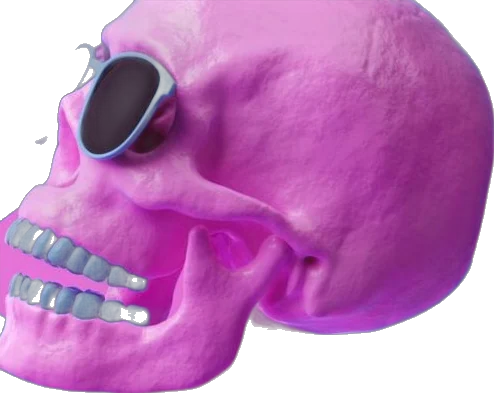
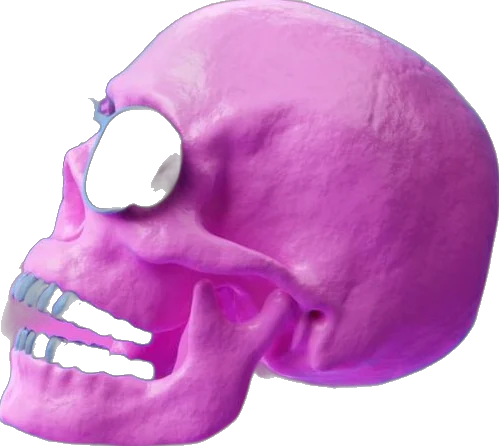
Fix skull crop, steadier eye, headphones on 12, new bust cut-outs, calmer statue
Claude-Session: https://claude.ai/code/session_01WkFQr9y62zBA8xfT5vCMqy

diff --git a/index.html b/index.html
@@ -156,7 +156,7 @@ body::after{content:"";position:fixed;inset:-50%;z-index:90;pointer-events:none;
 
 /* work — horizontal, WebGL frames */
 .work{position:relative;padding-top:clamp(60px,8vw,110px);background:var(--ink)}
-.work-head{display:flex;justify-content:space-between;align-items:flex-end;gap:24px;flex-wrap:wrap;margin-bottom:clamp(28px,4vw,56px)}
+.work-head{position:relative;display:flex;justify-content:space-between;align-items:flex-end;gap:24px;flex-wrap:wrap;margin-bottom:clamp(28px,4vw,56px)}
 .work-head .serif{color:var(--hot)}
 .work-track{display:flex;gap:clamp(16px,2vw,32px);padding-inline:var(--gut);padding-bottom:clamp(60px,8vw,110px);width:max-content;will-change:transform}
 .case{width:min(62vw,880px);flex:none;display:flex;flex-direction:column;gap:16px}
@@ -193,6 +193,11 @@ body::after{content:"";position:fixed;inset:-50%;z-index:90;pointer-events:none;
 .step p{margin:0;color:var(--mute);font-size:clamp(17px,1.5vw,22px);max-width:30ch;line-height:1.35}
 .step p em{font-family:var(--f-serif);color:var(--bone);font-size:1.15em}
 
+.dc{position:absolute;pointer-events:none;z-index:2;filter:drop-shadow(0 24px 40px rgba(0,0,0,.45));will-change:transform}
+.wk-bust{right:30%;bottom:-90px;width:clamp(110px,12vw,210px)}
+.crew-david{left:48%;bottom:-10px;width:clamp(130px,15vw,250px)}
+.cl-bust{left:-1%;bottom:0;width:clamp(150px,18vw,300px)}
+@media (max-width:900px){.wk-bust{right:4%;width:96px}.crew-david{left:auto;right:4%;bottom:auto;top:-40px;width:110px}.cl-bust{width:120px}}
 /* numbers — giant composition */
 .numbers{position:relative;overflow:hidden;padding-block:clamp(70px,9vw,130px);background:var(--ink)}
 .nb{margin-top:clamp(20px,3vw,40px)}
@@ -207,7 +212,7 @@ body::after{content:"";position:fixed;inset:-50%;z-index:90;pointer-events:none;
 .nx-eye .qp{display:block;width:100%;height:100%;transform-style:preserve-3d}
 .nx-eye img{width:100%;height:100%;object-fit:contain;filter:drop-shadow(0 20px 40px rgba(255,46,99,.25))}
 .one{position:relative;display:inline-block}
-.nx-frog{position:absolute;left:-.12em;top:-.13em;width:.56em;transform-origin:50% 100%;filter:drop-shadow(0 10px 18px rgba(0,0,0,.4))}
+.nx-frog{position:absolute;left:-.2em;top:-.24em;width:.72em;transform-origin:50% 100%;rotate:-14deg;filter:drop-shadow(0 10px 18px rgba(0,0,0,.4))}
 .nx-statue{position:absolute;right:-.02em;bottom:-.02em;height:1.02em;width:auto;max-width:none;transform-origin:30% 100%;filter:drop-shadow(0 20px 40px rgba(0,0,0,.45));pointer-events:none}
 .n3 .big{padding-right:1.1em}
 .zero{position:relative;display:inline-block;color:transparent;-webkit-text-stroke:3px var(--bone)}
@@ -294,7 +299,7 @@ blockquote{margin:0}
 
 /* crew */
 .crew{padding-block:clamp(50px,6vw,90px) clamp(70px,9vw,130px);background:var(--ink);border-top:1px solid var(--line)}
-.crew-head{display:flex;justify-content:space-between;align-items:flex-end;gap:24px;flex-wrap:wrap;margin-block:clamp(36px,5vw,70px)}
+.crew-head{position:relative;display:flex;justify-content:space-between;align-items:flex-end;gap:24px;flex-wrap:wrap;margin-block:clamp(36px,5vw,70px)}
 .crew-head p{margin:0;max-width:34ch;color:var(--mute)}
 .crew-grid{display:grid;grid-template-columns:repeat(3,minmax(0,1fr));gap:clamp(12px,1.6vw,24px)}
 .member{display:flex;flex-direction:column;gap:12px;cursor:pointer}
@@ -495,7 +500,7 @@ footer{background:var(--ink)}
   </section>
 
   <section class="work" id="work">
-    <div class="work-head wrap">
+    <div class="work-head wrap"><img class="dc wk-bust" src="im/bust-l.webp" alt="" aria-hidden="true" loading="lazy" decoding="async">
       <h2 class="h-sec reveal">Selected <span class="serif">work</span></h2>
       <p class="mono" style="color:var(--mute);margin:0">Proof, not promises · 2025—2026</p>
     </div>
@@ -557,7 +562,7 @@ footer{background:var(--ink)}
         </div>
         <div class="nrow n2 right">
           <p class="lbl"><span class="mono">02 /</span>countries our work <em class="serif hot">runs</em> in</p>
-          <div class="big" aria-label="12"><span class="one">1<img class="nx-frog" src="im/frog-cut.webp" alt="" loading="lazy" decoding="async"></span><span class="dg" data-v="2"></span></div>
+          <div class="big" aria-label="12"><span class="one">1<img class="nx-frog" src="im/phones-cut.webp" alt="" loading="lazy" decoding="async"></span><span class="dg" data-v="2"></span></div>
         </div>
         <div class="nrow n3">
           <div class="big" aria-label="7"><span class="dg" data-v="7"></span><img class="nx-statue" src="im/statue-cut.webp" alt="" loading="lazy" decoding="async"></div>
@@ -612,12 +617,13 @@ footer{background:var(--ink)}
       <div class="cl-row" data-dir="1"><span class="o">HROM</span><i>✳</i><span>LUNA FM</span><i>✳</i><span class="o">SMAK</span><em>&amp;</em><span>ZORYA</span><i>✳</i><span class="o">MAMAI</span><i>✳</i><span class="o">HROM</span><i>✳</i><span>LUNA FM</span><i>✳</i><span class="o">SMAK</span><em>&amp;</em><span>ZORYA</span><i>✳</i><span class="o">MAMAI</span><i>✳</i></div>
       <div class="cl-row" data-dir="-1"><span>TYSHA</span><i>✳</i><span class="o">KHVYLIA</span><i>✳</i><span>DIM</span><em>&amp;</em><span class="o">PYL</span><i>✳</i><span>BORSCH LAB</span><i>✳</i><span>TYSHA</span><i>✳</i><span class="o">KHVYLIA</span><i>✳</i><span>DIM</span><em>&amp;</em><span class="o">PYL</span><i>✳</i><span>BORSCH LAB</span><i>✳</i></div>
     </div>
+    <img class="dc cl-bust" src="im/bust-r.webp" alt="" aria-hidden="true" loading="lazy" decoding="async">
     <img class="cl-cham" id="clCham" src="im/cham-cut.webp" alt="" aria-hidden="true" loading="lazy" decoding="async">
   </section>
 
   <section class="crew wrap" id="crew">
     <div class="label-row mono"><span>The crew</span><span>Small team · Big nerve</span></div>
-    <div class="crew-head">
+    <div class="crew-head"><img class="dc crew-david" src="im/david-cut.webp" alt="" aria-hidden="true" loading="lazy" decoding="async">
       <h2 class="h-sec reveal">Meet the<br><span class="serif hot">animals</span></h2>
       <p>We don't do headshots. Each of us picked the creature that explains us best.<span class="desk"> Hover to wake them up.</span></p>
     </div>
@@ -869,7 +875,7 @@ footer{background:var(--ink)}
   (function levitate(sel){
     const stage=$(sel);if(!stage)return;const items=[...stage.querySelectorAll('.qs')],R=gsap.utils.random;
     gsap.from(items,{x:()=>R(-240,240),y:()=>R(160,360),rotation:()=>R(-60,60),scale:.3,autoAlpha:0,duration:1.8,stagger:{each:.08,from:'center'},ease:'expo.out',scrollTrigger:{trigger:stage,start:'top 80%',toggleActions:'play none none reverse'}});
-    items.forEach(el=>{const im=el.querySelector('img,svg');if(im)gsap.to(im,{yPercent:R(-8,-3),rotation:R(-5,5),duration:R(2.4,4),ease:'sine.inOut',yoyo:true,repeat:-1,delay:R(0,2)})});
+    items.forEach(el=>{const im=el.querySelector('img,svg');if(im)gsap.to(im,{yPercent:R(-8,-3),rotation:el.classList.contains('ps-eye')?0:R(-5,5),duration:R(2.4,4),ease:'sine.inOut',yoyo:true,repeat:-1,delay:R(0,2)})});
     gsap.fromTo(sel+' .ps-eye .qp img',{scale:1.15},{scale:.95,ease:'none',scrollTrigger:{trigger:'.process',start:'top bottom',end:'bottom top',scrub:1}});
     gsap.fromTo(sel+' .ps-orbit .qp',{rotation:10},{rotation:-10,ease:'none',scrollTrigger:{trigger:'.process',start:'top bottom',end:'bottom top',scrub:1}});
   })('#pStage');
@@ -877,7 +883,7 @@ footer{background:var(--ink)}
   (function eyes(){
     const list=$$('.qs-eye').filter(e=>!e.closest('#qStage')).map(el=>{const p=el.querySelector('.qp');return{el,rx:gsap.quickTo(p,'rotationX',{duration:.6,ease:'power3'}),ry:gsap.quickTo(p,'rotationY',{duration:.6,ease:'power3'})}});
     window.addEventListener('pointermove',e=>list.forEach(o=>{const r=o.el.getBoundingClientRect();if(r.bottom<0||r.top>innerHeight)return;
-      const dx=e.clientX-(r.left+r.width/2),dy=e.clientY-(r.top+r.height/2);o.ry(gsap.utils.clamp(-40,40,dx/10));o.rx(gsap.utils.clamp(-40,40,-dy/10))}));
+      const dx=e.clientX-(r.left+r.width/2),dy=e.clientY-(r.top+r.height/2);o.ry(gsap.utils.clamp(-16,16,dx/28));o.rx(gsap.utils.clamp(-16,16,-dy/28))}));
   })();
 
   // manifesto words
@@ -1009,6 +1015,11 @@ footer{background:var(--ink)}
   gsap.to('#badge svg',{rotation:360,duration:14,ease:'none',repeat:-1});
   gsap.fromTo('#badge',{scale:.4,rotation:-90},{scale:1,rotation:0,ease:'back.out(2)',duration:1.2,scrollTrigger:{trigger:'#badge',start:'top 90%',toggleActions:'play none none reverse'}});
 
+  // ---------- DECOR cut-outs ----------
+  $$('.dc').forEach((el,k)=>{
+    gsap.fromTo(el,{yPercent:60,rotation:[-20,16,-14][k%3],autoAlpha:0},{yPercent:0,rotation:0,autoAlpha:1,duration:1.4,ease:'back.out(1.6)',scrollTrigger:{trigger:el.parentElement,start:'top 80%',toggleActions:'play none none reverse'}});
+    gsap.to(el,{y:-12,rotation:[3,-4,3][k%3],duration:[2.6,3.1,2.2][k%3],ease:'sine.inOut',yoyo:true,repeat:-1,delay:1.4});
+  });
   // ---------- NUMBERS ----------
   $$('.dg').forEach((d,k)=>{
     const v=+d.dataset.v,reel=document.createElement('span');reel.className='reel';
@@ -1022,9 +1033,9 @@ footer{background:var(--ink)}
   });
   gsap.fromTo('.nx-eye',{xPercent:-260,rotation:-540,scale:.4},{xPercent:0,rotation:0,scale:1,duration:2,ease:'expo.out',scrollTrigger:{trigger:'.n1',start:'top 85%',toggleActions:'play none none reverse'}});
   gsap.fromTo('.nx-frog',{yPercent:120,autoAlpha:0},{yPercent:0,autoAlpha:1,duration:1,ease:'back.out(2.4)',delay:.5,scrollTrigger:{trigger:'.n2',start:'top 80%',toggleActions:'play none none reverse'}});
-  gsap.to('.nx-frog',{scaleY:.9,scaleX:1.06,duration:.9,ease:'sine.inOut',yoyo:true,repeat:-1});
+  gsap.to('.nx-frog',{rotation:5,y:-8,duration:2.2,ease:'sine.inOut',yoyo:true,repeat:-1});
   gsap.fromTo('.nx-statue',{yPercent:40,xPercent:40,rotation:25,autoAlpha:0},{yPercent:0,xPercent:0,rotation:0,autoAlpha:1,duration:1.6,ease:'expo.out',scrollTrigger:{trigger:'.n3',start:'top 80%',toggleActions:'play none none reverse'}});
-  gsap.to('.nx-statue',{rotation:-4,duration:.48,ease:'sine.inOut',yoyo:true,repeat:-1});
+  gsap.to('.nx-statue',{rotation:-2.5,y:-6,duration:2.6,ease:'sine.inOut',yoyo:true,repeat:-1});
   gsap.fromTo('.nx-skull',{scale:0,rotation:-200},{scale:1,rotation:0,duration:1.5,ease:'back.out(1.8)',scrollTrigger:{trigger:'.n4',start:'top 80%',toggleActions:'play none none reverse'}});
   gsap.to('.nx-skull',{yPercent:-8,rotation:8,duration:1.8,ease:'sine.inOut',yoyo:true,repeat:-1});
   gsap.fromTo('.zero',{rotation:-12},{rotation:10,ease:'none',scrollTrigger:{trigger:'.n4',start:'top bottom',end:'bottom top',scrub:1}});
